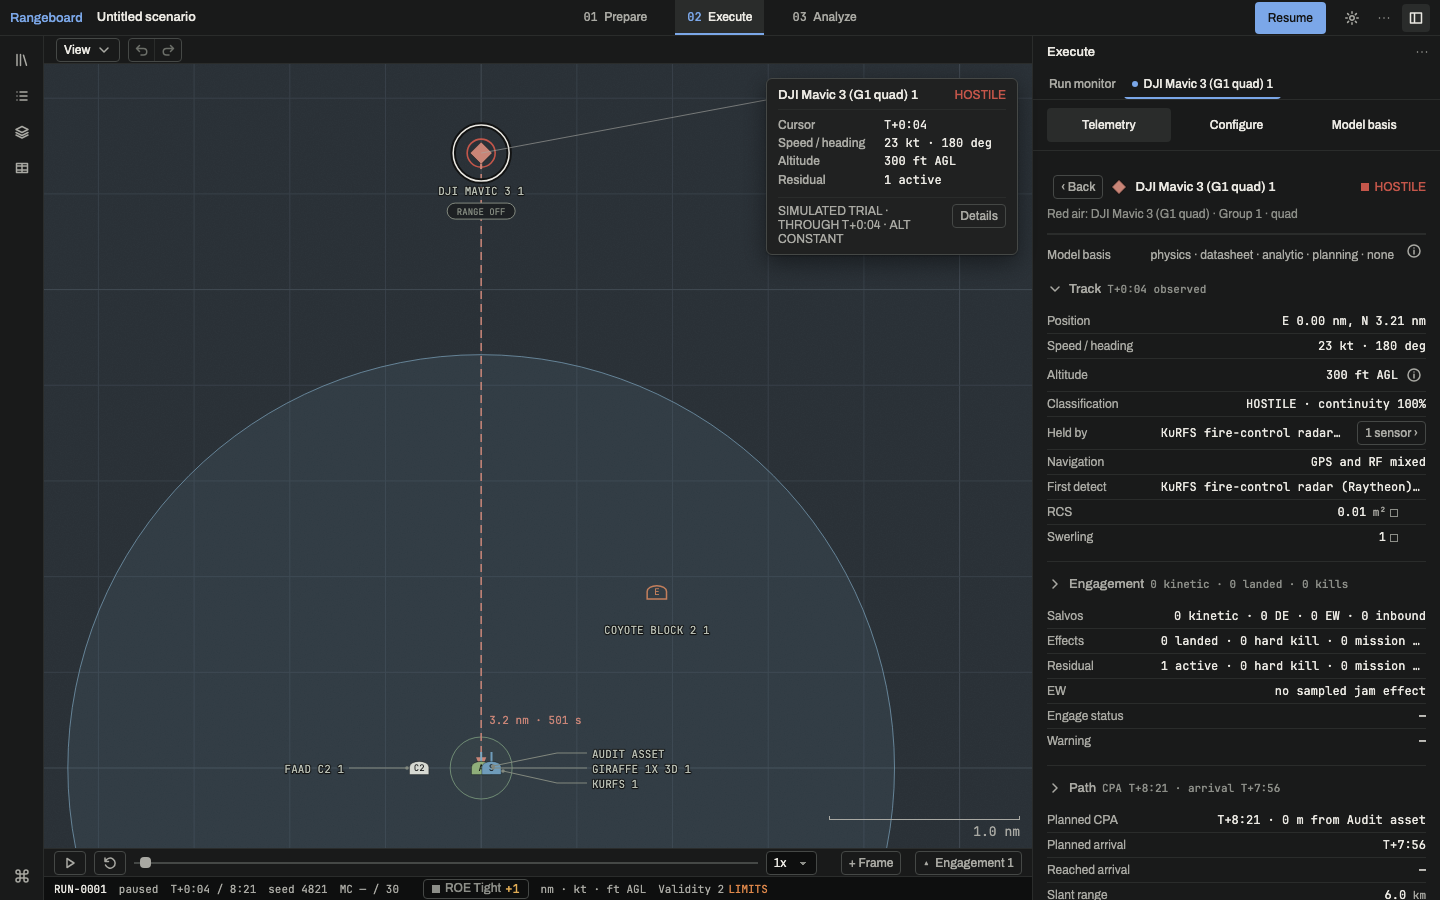
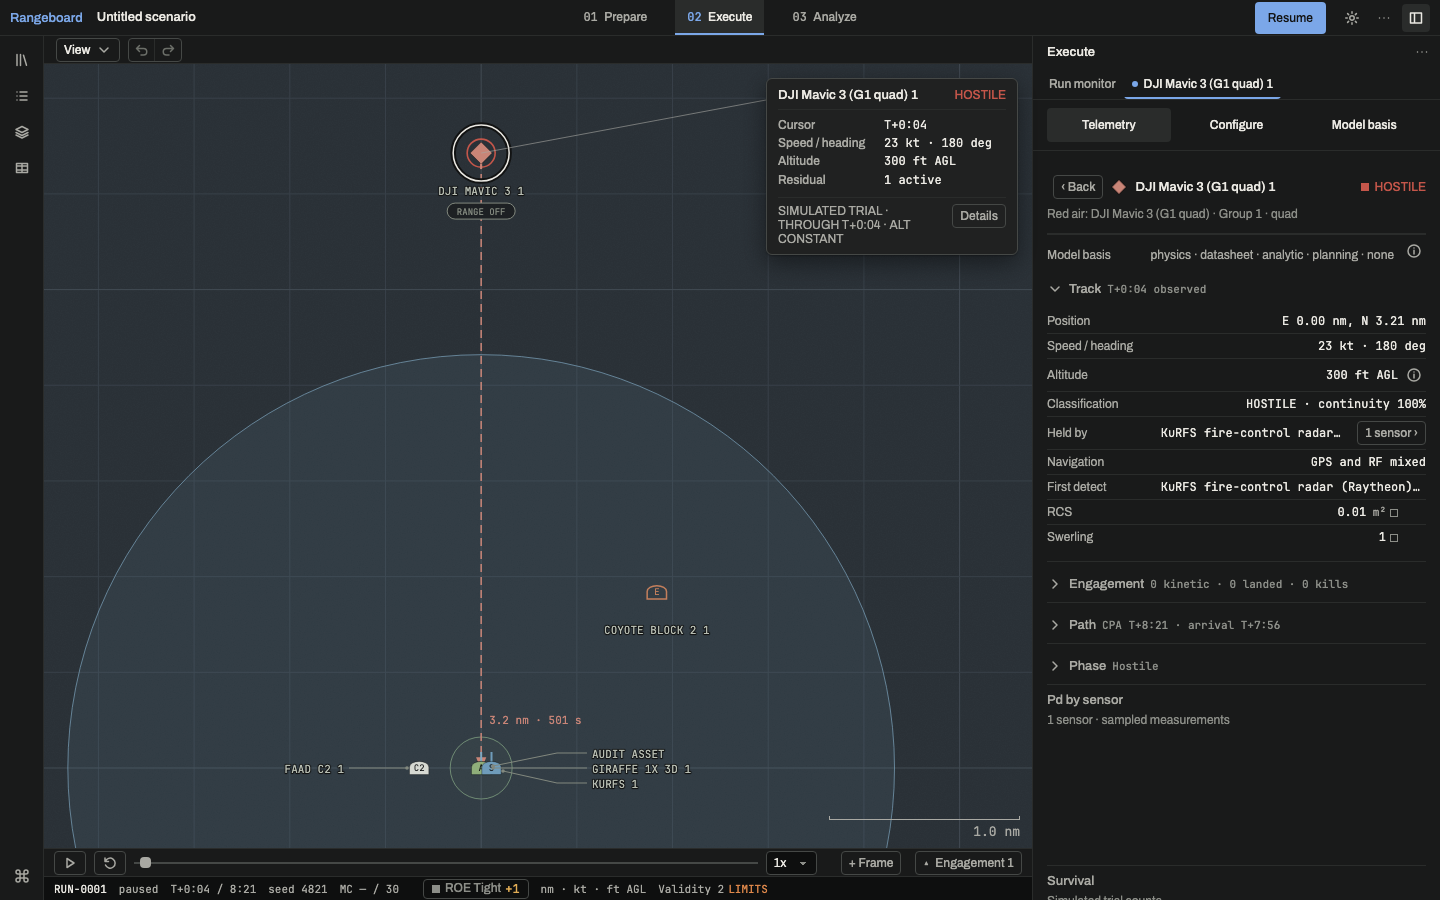
C-int: a collapsed detail section hides its body (the flex display overrode the hidden attribute); the final capture re-run

diff --git a/src/index.css b/src/index.css
@@ -2465,6 +2465,12 @@ select.nu-unit {
   padding: 2px 0 var(--space-3);
 }
 
+/* A collapsed detail section hides its body through the attribute; the flex
+   display above would otherwise override it. */
+.wg-b[hidden] {
+  display: none;
+}
+
 /* ---------- Analysis: selection detail ---------- */
 
 /* One selected entity replaces the widget stack. The pane reuses the widget
